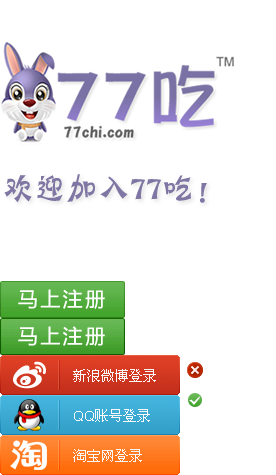
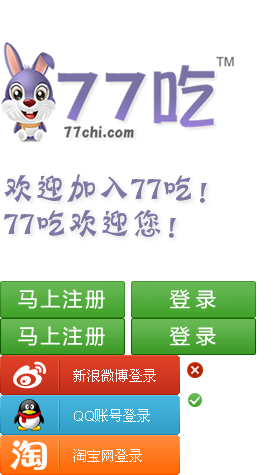
update

diff --git a/静态页/web_06-20/login.html b/静态页/web_06-20/login.html
@@ -2,12 +2,11 @@
 <html xmlns="http://www.w3.org/1999/xhtml">
 <head>
 <meta http-equiv="Content-Type" content="text/html; charset=utf-8" />
-<title>我要登录77吃！</title>
+<title>登陆 - 77吃零食好吃又便宜</title>
 <link rel="stylesheet" href="css/style.css" />
 <link rel="stylesheet" href="css/login.css" />
 <script type="text/javascript" src="js/jquery.js"></script>
 <script type="text/javascript" src="js/inputmail.js"></script>
-
 <script type="text/javascript">
 $(function(){
 	$("#userMail").changeTips({
@@ -24,74 +23,60 @@ $(function(){
 	</script>
 	<![endif]-->
 </head>
-
 <body>
 <div class="header">
-<h1>
-	<a href="index.html" title="77吃首页">77吃首页</a>
-</h1>
+  <h1> <a href="index.html" title="77吃首页">77吃首页</a> </h1>
 </div>
-
-
 <div class="logbox">
-<div class="fl">
-<h1 class="logintitle">我要登录77吃！</h1><form action="#" method="get" id="regform" name="regform">
-
-<div class="inputBox">
-<i>请输入邮箱地址</i>
-<input type="text" id="userMail" name="userMail" placeholder="用户名或邮箱" autocomplete="off">
-<ul class="on_changes">
-			<li email="">请选择邮箱类型</li>
-			<li email="@qq.com"></li>
-			<li email="@126.com"></li>
-			<li email="@163.com"></li>
-			<li email="@sina.com"></li>
-			<li email="@sohu.com"></li>
-			<li email="@yahoo.com"></li>
-			<li email="@yahoo.com.cn"></li>            
-            <li email="@139.com"></li>
-			<li email="@21cn.com"></li>
-			<li email="@yahoo.com"></li>
-			<li email="@gmail.com"></li>
-			<li email="@tom.com"></li>
-			<li email="@hotmail.com"></li>
-			<li email="@yeah.net"></li>  
-		</ul>
-<div class="yesBox"></div>
-
+  <div class="fl">
+  <div class="logintitle"></div>    
+    <form action="#" method="get" id="regform" name="regform">
+      <div class="inputBox">
+        <div></div>
+        <i>邮箱</i>
+        <input type="text" id="userMail" name="userMail" placeholder="" autocomplete="off">
+        <ul class="on_changes">
+          <li email="">请选择邮箱类型</li>
+          <li email="@qq.com"></li>
+          <li email="@126.com"></li>
+          <li email="@163.com"></li>
+          <li email="@sina.com"></li>
+          <li email="@sohu.com"></li>
+          <li email="@yahoo.com"></li>
+          <li email="@yahoo.com.cn"></li>
+          <li email="@139.com"></li>
+          <li email="@21cn.com"></li>
+          <li email="@yahoo.com"></li>
+          <li email="@gmail.com"></li>
+          <li email="@tom.com"></li>
+          <li email="@hotmail.com"></li>
+          <li email="@yeah.net"></li>
+        </ul>
+      </div>
+      <div class="error"></div>
+      <div class="inputBox" style="margin-top:30px;"> <i>密码</i>
+        <input type="password" id="pas1" name="login_name" placeholder="">
+      </div>
+      <div class="error"></div>
+      <div class="serText">
+        <input name="checkbox" type="checkbox" id="service" checked="checked" />
+        <label for="service"><span style="color:#777">&nbsp;记住登陆状态</a></span>
+        <a href="#" class="blue" style="position:relative; padding-left:100px; color:#777">忘记密码？</a>
+      </div>
+      <div class="subBtn">
+        <input name="btn_login" type="submit" class="btn_login" value=""/>
+        <a href="#" class="blue" style="position:relative; padding-left:30px;">没有账号？ 去注册</a>
+      </div>
+    </form>
+  </div>
+  <div class="fr">
+    <h3>合作网站帐号登录:</h3>
+    <ul>
+      <li><a href="#" title="新浪微博登录" class="sina"></a></li>
+      <li><a href="#" title="QQ账号登录" class="qq"></a></li>
+      <li><a href="#" title="淘宝网登录" class="taobao"></a></li>
+    </ul>
+  </div>
 </div>
-
-<div class="error"></div>
-
-<div class="inputBox">
-  <i>请输入密码</i>
-  <input type="password" id="pas1" name="login_name" placeholder="密码">
-<div class="yesBox"></div>
-</div>
-<div class="error"></div>
-
-<div class="serText"><input name="checkbox" type="checkbox" id="service" checked="checked" />
-      <label for="service"><a href="#">记录登录状态</a></label></div>
-<div class="subBtn"><input name="btn_login" type="button" class="btn_login" value="  "/>
-&nbsp;&nbsp;&nbsp;&nbsp;<a href="#">忘记密码?</a></div>
-
-
-
-</form>
-<div><a href="reg.html" class="zctxt">没有帐号?立即注册</a></div>
-</div>
-
-
-<div class="fr">
-<h3>使用合作网站帐号登录:</h3>
-<ul><li><a href="#" title="新浪微博登录" class="sina"></a></li>
-  <li><a href="#" title="QQ账号登录" class="qq"></a></li>
-  <li><a href="#" title="淘宝网登录" class="taobao"></a></li></ul>
-</div>
-
-
-</div>
-
-
 </body>
 </html>

diff --git a/静态页/web_06-20/css/login.css b/静态页/web_06-20/css/login.css
@@ -6,8 +6,9 @@ body{color:#151515; background:#f7f7f7;}
 
 .logbox {width:650px;  margin:0 auto; border-radius:5px; _zoom:1; padding:20px 0 20px 0; font-size:14px;}
 .logbox .fl {float:left; width:380px;border-right:1px #ccc  dashed;height:320px;}
-.logbox .fl h1 { font-size:22px;line-height:60px; color:#666;font-family:"微软雅黑"; width:220px; background:url(../images/regpic.png) no-repeat 0 -155px; overflow:hidden; text-indent:-999em; padding:11px;}
-.logbox .fl .logintitle { background-position:0 -215px;}
+
+.logintitle { background:url(../images/regpic.png) no-repeat 0 -205px; width:270px; height:37px; margin-bottom:18px;}
+.regtitle { background:url(../images/regpic.png) no-repeat 0 -169px; width:270px; height:37px;margin-bottom:18px;}
 
 
 
@@ -59,8 +60,19 @@ body{color:#151515; background:#f7f7f7;}
 .on_changes li.active{ background:#CEE7FF;}
 
 .logbox .fl h3 { font-size:16px; font-family:"微软雅黑"; color:#666666; line-height:60px;}
-.btn_login {background:url(../images/regpic.png) no-repeat -138px -285px;width:138px; height:35px; border:0; font-size:14px; text-align:center; font-weight:bold; color:#fff; cursor:pointer; vertical-align:text-bottom}
-.btn_login:hover {background-position: -138px -320px; width:138px; height:35px;}
+.btn_login {
+	background:url(../images/regpic.png) no-repeat -131px -281px;
+	width:125px;
+	height:37px;
+	border:0;
+	font-size:14px;
+	text-align:center;
+	font-weight:bold;
+	color:#fff;
+	cursor:pointer;
+	vertical-align:text-bottom
+}
+.btn_login:hover {background-position: -131px -318px; width:125px; height:37px;}
 
 .zctxt { }
 

diff --git a/静态页/web_06-20/reg.html b/静态页/web_06-20/reg.html
@@ -25,11 +25,11 @@ $(function(){
 </head>
 <body>
 <div class="header">
-  <h1> <a href="index.html" title="77吃首页">77吃首页</a> </h1>
+  <span> <a href="index.html" title="77吃首页">77吃首页</a> </span>
 </div>
 <div class="logbox">
   <div class="fl">
-    <h1>欢迎加入77吃!</h1>
+    <div class="regtitle"></div>
     <form action="#" method="get" id="regform" name="regform">
       <div class="inputBox">
         <div></div>
